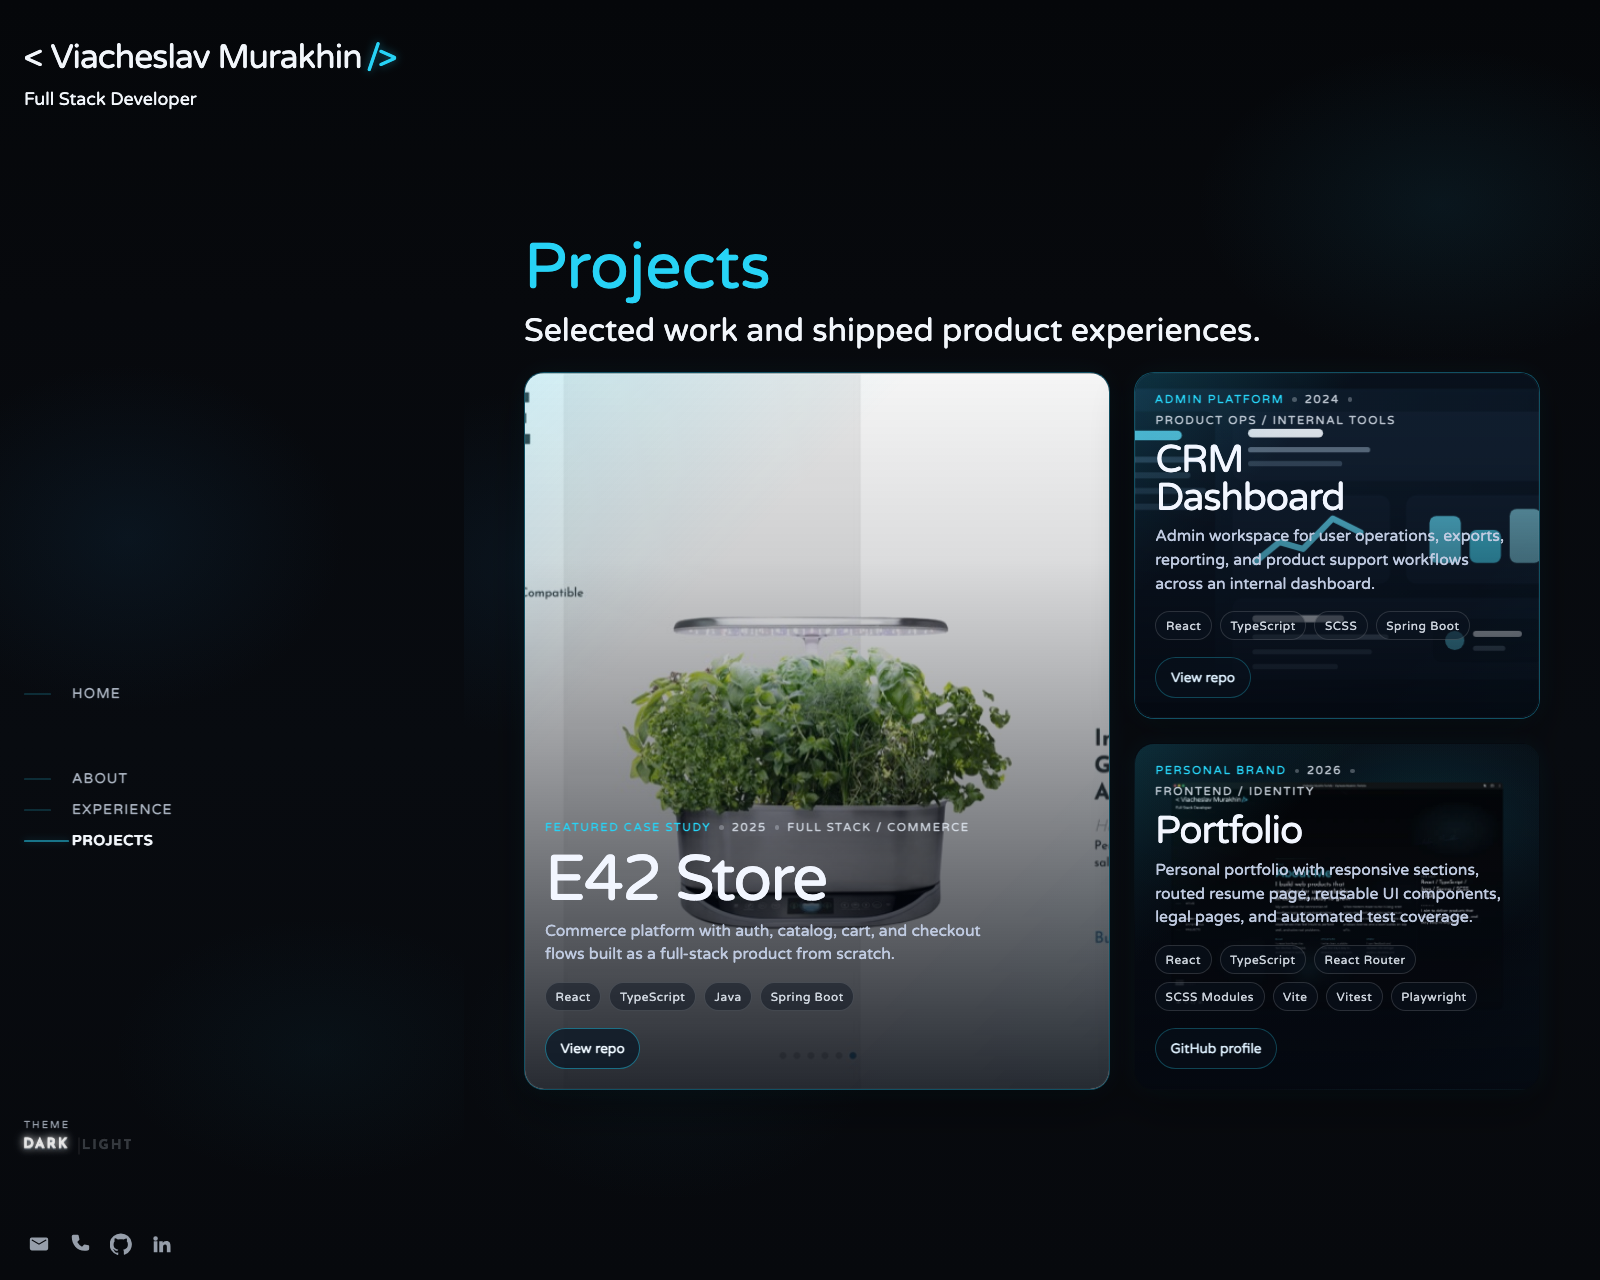
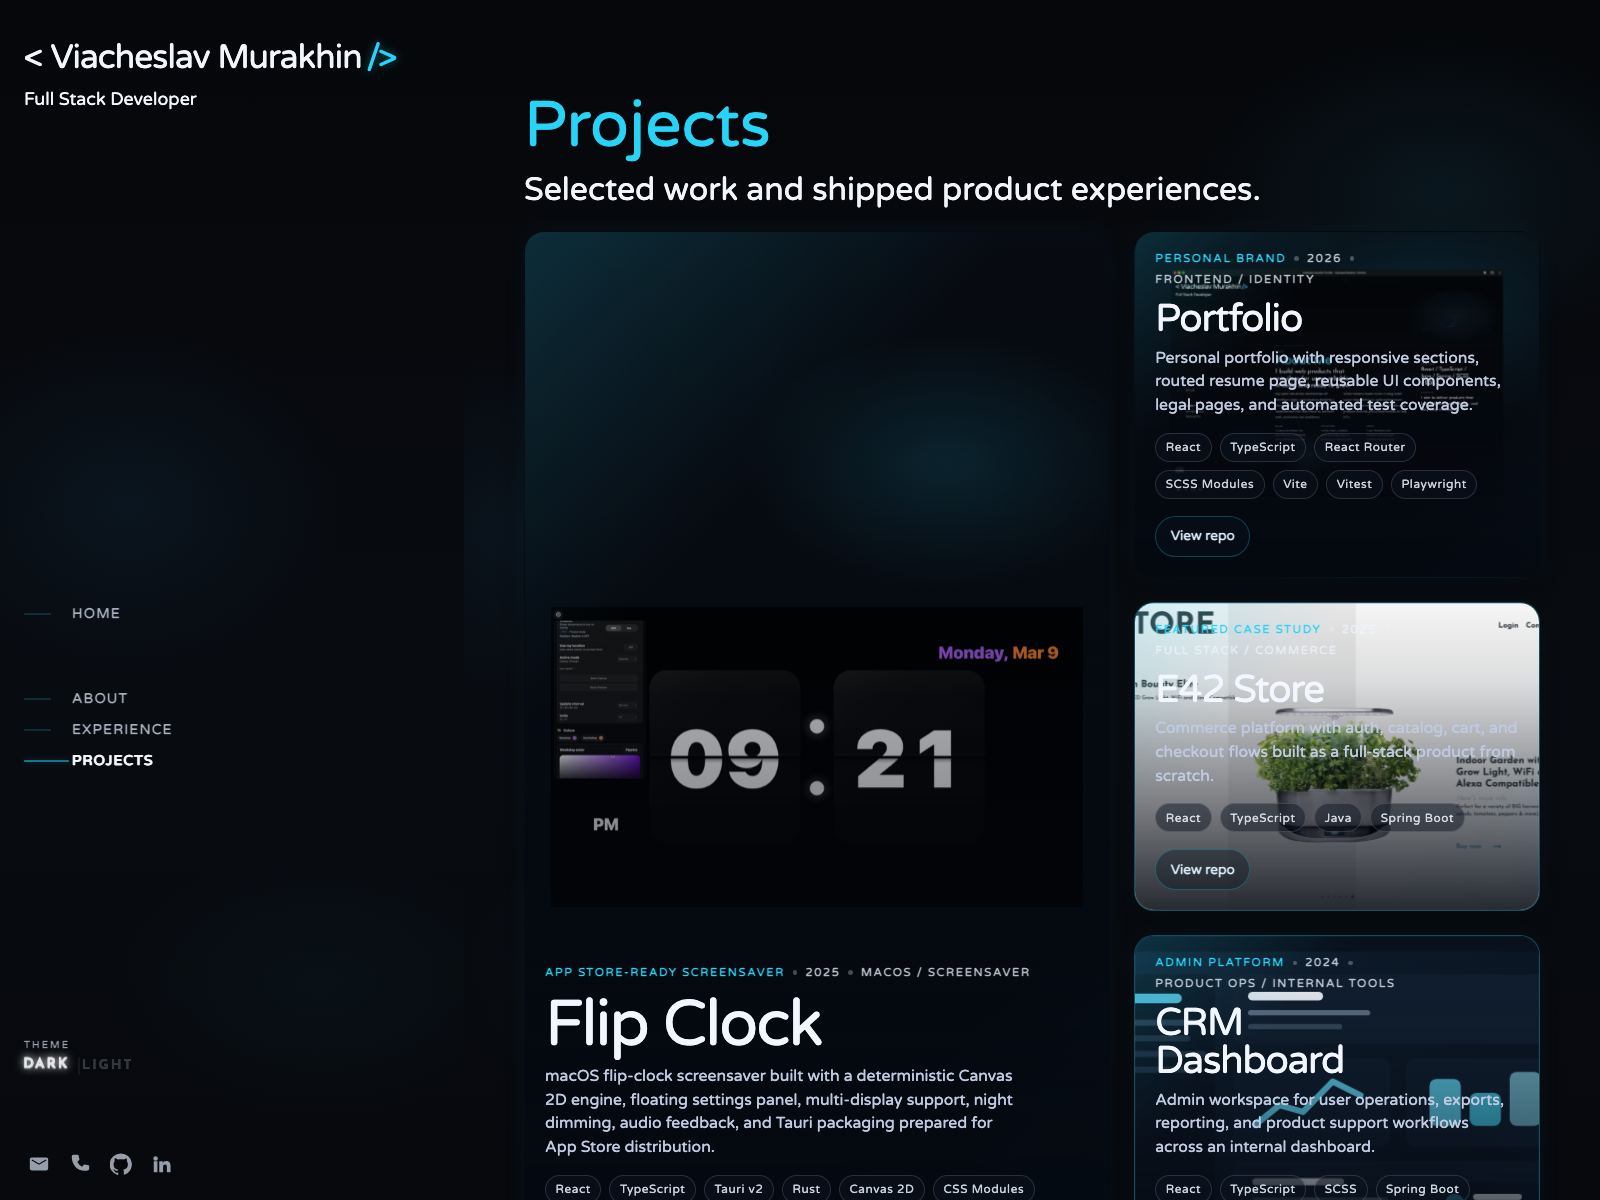
fix(layout): restore full-width sections and refresh projects gallery screenshots

diff --git a/e2e/app.spec.ts b/e2e/app.spec.ts
@@ -125,3 +125,74 @@ test("mobile home and projects stay inside the viewport", async ({page}, testInf
     expect(featuredTitleBox!.y).toBeGreaterThanOrEqual(featuredImageBox!.y + featuredImageBox!.height - 2)
     expect(homeMetrics.scrollWidth).toBeLessThanOrEqual(homeMetrics.clientWidth + 1)
 })
+
+test("desktop sections and footer stay inside the viewport with the sidebar open", async ({page}, testInfo) => {
+    test.skip(testInfo.project.name !== "chromium")
+
+    const content = page.locator("main.content")
+    const viewport = page.viewportSize()
+
+    expect(viewport).not.toBeNull()
+
+    for (const route of ["/home", "/about", "/experience", "/projects"]) {
+        await page.goto(route)
+
+        const metrics = await content.evaluate((element) => ({
+            clientWidth: element.clientWidth,
+            scrollWidth: element.scrollWidth,
+        }))
+
+        expect(metrics.scrollWidth).toBeLessThanOrEqual(metrics.clientWidth + 1)
+    }
+
+    await page.goto("/home")
+
+    const homeHeadingBox = await page.getByRole("heading", {name: /^Murakhin$/i}).boundingBox()
+    expect(homeHeadingBox).not.toBeNull()
+    expect(homeHeadingBox!.x).toBeGreaterThanOrEqual(0)
+    expect(homeHeadingBox!.x + homeHeadingBox!.width).toBeLessThanOrEqual(viewport!.width + 1)
+
+    await page.goto("/about")
+
+    const aboutTitleBox = await page.getByRole("heading", {name: /About Me/i}).boundingBox()
+    expect(aboutTitleBox).not.toBeNull()
+    expect(aboutTitleBox!.x).toBeGreaterThanOrEqual(0)
+    expect(aboutTitleBox!.x + aboutTitleBox!.width).toBeLessThanOrEqual(viewport!.width + 1)
+
+    await page.goto("/experience")
+
+    const experienceTitleBox = await page.getByRole("heading", {name: /^Experience$/i}).boundingBox()
+    expect(experienceTitleBox).not.toBeNull()
+    expect(experienceTitleBox!.x).toBeGreaterThanOrEqual(0)
+    expect(experienceTitleBox!.x + experienceTitleBox!.width).toBeLessThanOrEqual(viewport!.width + 1)
+
+    await page.goto("/projects")
+
+    const projectsTitleBox = await page.getByRole("heading", {name: /^Projects$/i}).boundingBox()
+    expect(projectsTitleBox).not.toBeNull()
+    expect(projectsTitleBox!.x).toBeGreaterThanOrEqual(0)
+    expect(projectsTitleBox!.x + projectsTitleBox!.width).toBeLessThanOrEqual(viewport!.width + 1)
+
+    await content.evaluate((element) => {
+        element.scrollTo({top: element.scrollHeight, behavior: "auto"})
+    })
+
+    const footerBox = await page.locator("footer").boundingBox()
+    expect(footerBox).not.toBeNull()
+    expect(footerBox!.x).toBeGreaterThanOrEqual(0)
+    expect(footerBox!.x + footerBox!.width).toBeLessThanOrEqual(viewport!.width + 1)
+
+    await page.goto("/resume")
+
+    const resumeMetrics = await content.evaluate((element) => ({
+        clientWidth: element.clientWidth,
+        scrollWidth: element.scrollWidth,
+    }))
+
+    expect(resumeMetrics.scrollWidth).toBeLessThanOrEqual(resumeMetrics.clientWidth + 1)
+
+    const resumeSheetBox = await page.locator("article").first().boundingBox()
+    expect(resumeSheetBox).not.toBeNull()
+    expect(resumeSheetBox!.x).toBeGreaterThanOrEqual(0)
+    expect(resumeSheetBox!.x + resumeSheetBox!.width).toBeLessThanOrEqual(viewport!.width + 1)
+})

diff --git a/src/index.scss b/src/index.scss
@@ -209,6 +209,8 @@ main.content {
   position: relative;
   isolation: isolate;
   margin-left: var(--sidebar-width);
+  width: calc(100vw - var(--sidebar-width));
+  width: calc(100dvw - var(--sidebar-width));
   height: 100vh;
   height: 100dvh;
   min-height: 100vh;
@@ -220,12 +222,13 @@ main.content {
   scroll-behavior: smooth;
   scroll-padding-top: 1rem;
   background: var(--project-bg);
-  transition: margin-left 0.35s ease;
+  transition: margin-left 0.35s ease, width 0.35s ease;
   -ms-overflow-style: none;
   scrollbar-width: none;
   overflow-x: clip;
-  width: 100%;
-  max-width: 100%;
+  max-width: calc(100vw - var(--sidebar-width));
+  max-width: calc(100dvw - var(--sidebar-width));
+  min-width: 0;
   touch-action: pan-y pinch-zoom;
 }
 
@@ -245,15 +248,27 @@ main.content > section {
 
 .portfolio-sidebar--hidden ~ main.content {
   margin-left: 0;
+  width: 100%;
+  max-width: 100%;
   padding-top: 0;
 }
 
 main.content.content--page {
   margin-left: 0;
+  width: 100%;
+  max-width: 100%;
   height: auto;
   min-height: 100vh;
   min-height: 100dvh;
   overflow: visible;
+}
+
+main.content.content--home {
+  margin-left: 0;
+  width: 100vw;
+  width: 100dvw;
+  max-width: 100vw;
+  max-width: 100dvw;
 }
 
 @media (max-width: 1080px) {
@@ -263,6 +278,8 @@ main.content.content--page {
 
   main.content {
     margin-left: 0;
+    width: 100%;
+    max-width: 100%;
     padding-top: 0;
     scroll-padding-top: calc(var(--mobile-nav-offset) + 0.6rem);
   }

diff --git a/src/App.tsx b/src/App.tsx
@@ -1,5 +1,5 @@
 import React, {useEffect, useState} from "react"
-import {BrowserRouter as Router, Route, Routes} from "react-router-dom"
+import {BrowserRouter as Router, Route, Routes, useLocation} from "react-router-dom"
 import {Footer, RouteMeta, ScrollToSection, SideBar} from "./components"
 import {MAIN_SECTIONS} from "./content/site"
 import {CopyrightPage, MainContent, NotFound, PrivacyPage, Resume} from "./pages"
@@ -48,11 +48,14 @@ interface PortfolioLayoutProps {
 }
 
 const PortfolioLayout: React.FC<PortfolioLayoutProps> = ({setTheme, theme}) => {
+    const location = useLocation()
+    const isHomePath = location.pathname === "/" || location.pathname === "/home"
+
     return (
         <>
             <ScrollToSection/>
             <SideBar setTheme={setTheme} theme={theme}/>
-            <main className="content">
+            <main className={isHomePath ? "content content--home" : "content"}>
                 <MainContent theme={theme}/>
                 <Footer/>
             </main>

diff --git a/docs/visual-gallery.md b/docs/visual-gallery.md
@@ -47,7 +47,7 @@ Use it for:
 
 ### Projects on mobile
 
-![Projects mobile](./assets/projects-mobile.jpg)
+![Projects mobile](./assets/projects-mobile.png)
 
 ## Maintenance Note
 
